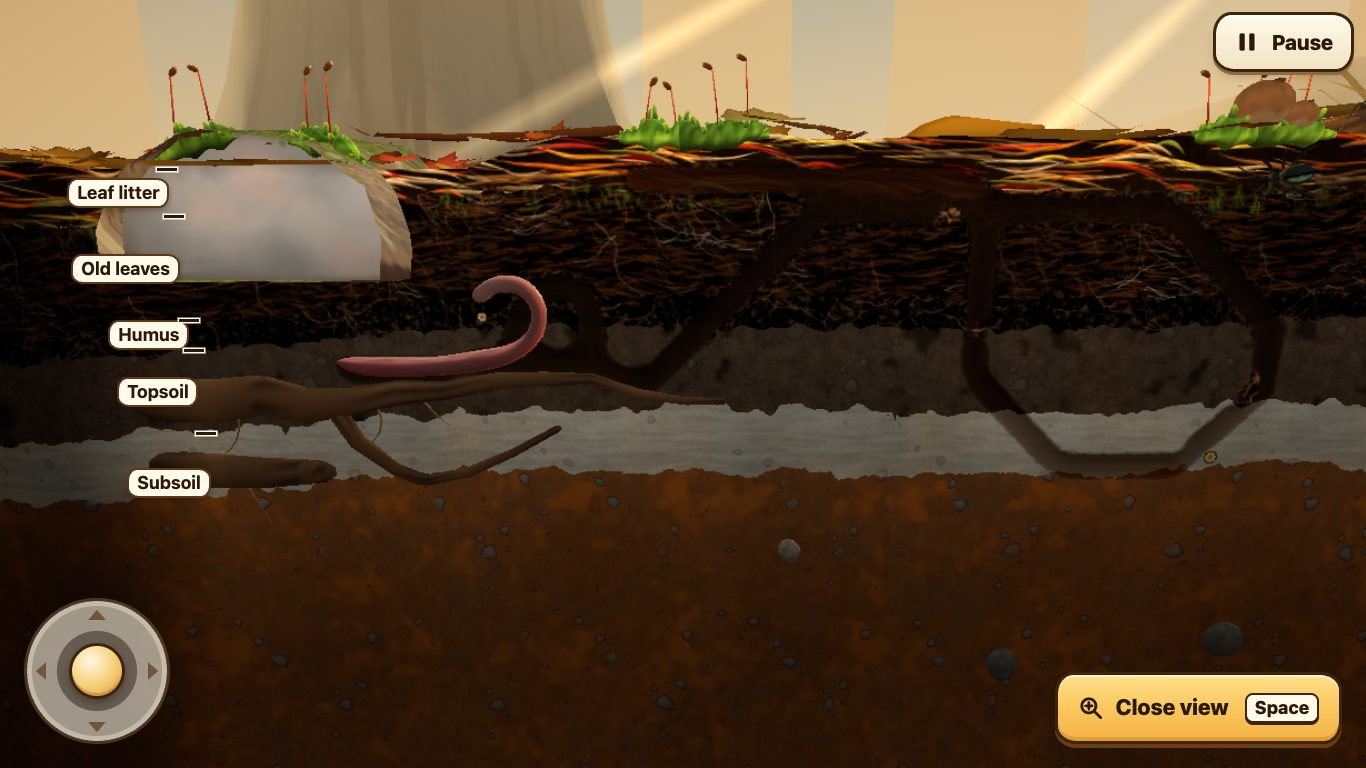
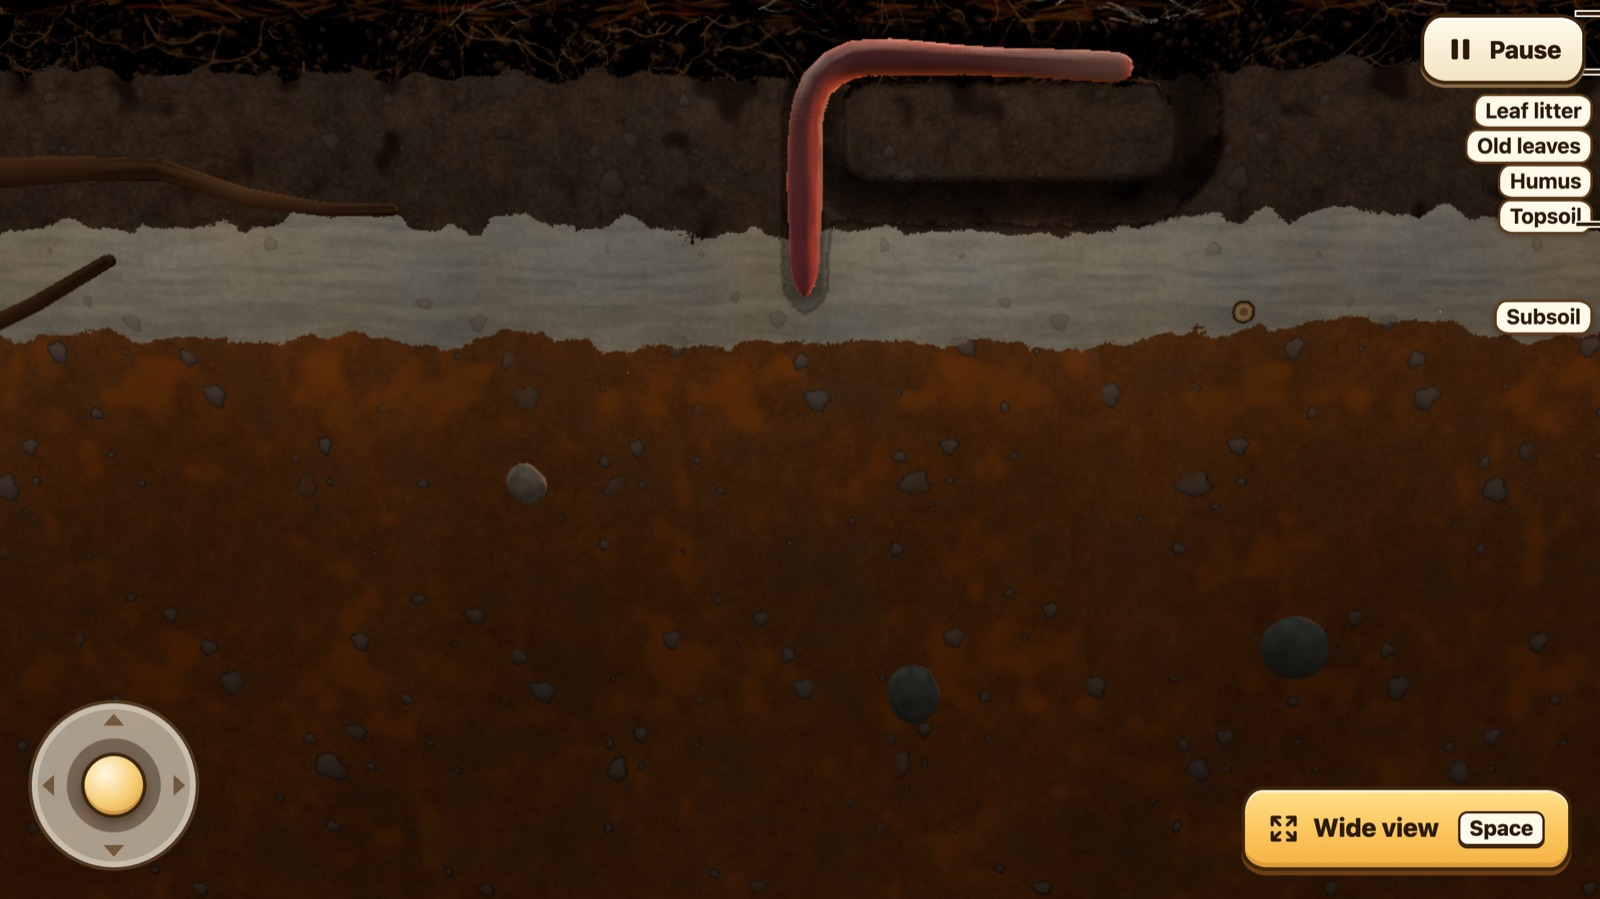
fix(underground): 3D tunnels tuned: castings read as lumps, deep tunnels stay soil brown; screenshots
- The face's hole is the whole tunnel, castings included (cutFace.ts bore): the one-cell band a
  casting leaves open never reached the hole threshold, so a casting read as a plug. The face
  discards on open alone; the casting colour is drawn only on the hollow.
- Castings are mounds of pellets (fillHollowCell, HOLLOW_PELLET) in H's dark crumbs, lit only by
  their shape: a granular lump on the downhill wall with the tunnel carrying on over it.
- Hollow light in the face's perceptual space: gentle wrap Lambert and depth (0.6 deepest), the
  factor clamped to 0.4..1 of the soil's own colour before the face's dimming, so a tunnel deep in
  B stays soil brown, never black and never brighter than the face.
- Tiles are claimed for open grid cells too (spec 4.3), so the face's hole never shows past them.
- cutScene preload comment: 11 MB, an addition to spec 4.3, and when it compiles nothing.
- Screenshots: tunnels-3d-wide, -close, -turn; tunnels.jpg retaken.

diff --git a/src/underground/cutFaceGlsl.ts b/src/underground/cutFaceGlsl.ts
@@ -154,28 +154,29 @@ export const CUT_FRAGMENT = /* glsl */ `
     col *= 1.0 - 0.35 * smoothstep(0.4, 0.53, e) * (1.0 - open);
     float mixed = smoothstep(0.22, 0.42, e + (lit.a - 0.25) * 0.4) * (1.0 - open) * smoothstep(0.25, 0.6, s.b);
     col = mix(col, vec3(0.03, 0.02, 0.015) + hum * 0.8, mixed * 0.9);
-    // Castings settled in the tunnel: granular lumps of dark crumbs (H's), darker for a gut full
-    // of leaves. Painted before the light below, so the hollow's mounds are lit by their own shape
-    // (their tops catch more light than the tunnel's depth behind them); on the face the mix is
-    // the same either way, and its castings are cut out with the hole.
-    float castAmt = smoothstep(0.12, 0.3, s.g * (0.7 + 0.6 * lit.a));
-    vec3 castCol = mix(vec3(0.3, 0.2, 0.13), vec3(0.17, 0.11, 0.07), clamp(s.g * 1.6 - 0.3, 0.0, 1.0));
-    col = mix(col, castCol * (0.35 + 1.4 * smoothstep(0.05, 0.35, lit.a)), castAmt);
-    // The tunnel (spec 2026-10-08 section 4.4). The face cuts its hole here (and where a casting
-    // lies in it): the hollow tiles behind show the tunnel's back half (hollowMesh.ts), in the same
-    // soil, lit by its own shape. One compare a pixel on the face.
+    // The tunnel (spec 2026-10-08 section 4.4). The face cuts its hole here, castings in it
+    // included (cutFace.ts): the hollow tiles behind show the tunnel's back half (hollowMesh.ts),
+    // in the same soil, lit by its own shape. One compare a pixel on the face.
     #ifndef HOLLOW
-    if (max(open, castAmt) > 0.5) discard;
+    if (open > 0.5) discard;
     #else
-    // Light from the camera's side and above (slab frame: u, v, toward the camera), wrapped, so the
-    // floor catches light and the roof is in shadow; the face itself (normal (0, 0, 1)) gets 1.
-    vec3 lightDir = vec3(0.0, 0.8, 0.6);
-    float wrapLit = dot(normalize(vNormal3), lightDir) * 0.5 + 0.5;
-    col *= wrapLit / 0.8;
-    // Darker deeper in: toward 45% at the tunnel's full depth...
-    col *= mix(1.0, 0.45, clamp(vDepth / ${f(TUNNEL_R)}, 0.0, 1.0));
-    // ...but a deep soil brown, never black (V2 spec 5).
-    col = max(col, vec3(0.13, 0.085, 0.052) * 0.55);
+    // Castings settled on the tunnel's downhill wall, as mounds of pellets in the hollow
+    // (soilGrid.ts fillHollowCell): H's own dark crumbs (the humus colour above), a little darker
+    // for a gut full of leaves, so a casting never reads as the soil around it. Lit only by the
+    // mound's shape below (no painted highlight).
+    float castAmt = smoothstep(0.07, 0.2, s.g * (0.7 + 0.6 * lit.a));
+    col = mix(col, hum * (1.8 - 0.6 * clamp(s.g * 1.6 - 0.3, 0.0, 1.0)), castAmt);
+    // Light from the camera's side and above (slab frame: u, v, toward the camera), so the floor and
+    // a casting's top catch light and the roof is in shadow; the face itself (normal (0, 0, 1)) gets
+    // 1. These factors are in the face's perceptual space (raised to FACE_GAMMA below), so they are
+    // gentle: 0.6 deepest in is about a third of the light.
+    float lambert = dot(normalize(vNormal3), vec3(0.0, 0.8, 0.6));
+    // Darker deeper in, toward 0.6 at the tunnel's full depth.
+    float shade = (1.0 + 0.5 * (lambert - 0.6)) * mix(1.0, 0.6, clamp(vDepth / ${f(TUNNEL_R)}, 0.0, 1.0));
+    // A deep soil brown, never black (V2 spec 5), and never brighter than the face: the factor
+    // stays within 0.4..1 of the soil's own colour, which the face's depth dimming, fades and grade
+    // below then treat exactly as the face around it, so each layer still shows in its tunnels.
+    col *= clamp(shade, 0.4, 1.0);
     #endif
 
     // Warm light from the surface fades with depth; the bottom darkens away (burrows go deeper).

diff --git a/src/underground/soilGrid.ts b/src/underground/soilGrid.ts
@@ -37,6 +37,8 @@ export const HOLLOW_MAX = 0.16;
  * here because castings.ts (which burrowTrail imports) cannot import it back without a cycle.
  */
 export const HOLLOW_MOUND_R = 0.14;
+/** A casting's mound is pellets: each cell's samples sink up to this (u) more toward its edges. */
+export const HOLLOW_PELLET = 0.024;
 /** A rectangle of hollow samples (c0 > c1: none). */
 export interface HollowRect { c0: number; c1: number; r0: number; r1: number }
 
@@ -255,9 +257,15 @@ function carve(g: SoilGrid, p: UV, r: number): void {
 
 /**
  * Lowers the hollow samples of cell i to a casting's mound (spec 4.2): HOLLOW_MOUND_R x 0.30 deep
- * (u behind the face) at the casting's middle (`edge255` 0) up to x 0.55 at its edge (255), plus a
- * little grain. It only ever lowers. `edge255` is an integer so no double is passed (boxed).
+ * (u behind the face) at the casting's middle (`edge255` 0) up to x 0.55 at its edge (255). Each
+ * cell is a pellet, raised in its middle and up to HOLLOW_PELLET deeper at its edges, so the mound
+ * reads as a granular lump (lit tops, shadowed gaps), plus a little grain. It only ever lowers.
+ * `edge255` is an integer so no double is passed (boxed).
  */
+/** A cell's middle in samples, and its corner samples' squared distance from it. */
+const PELLET_MID = (HOLLOW_RES - 1) / 2;
+const PELLET_FAR = 2 * PELLET_MID * PELLET_MID;
+
 export function fillHollowCell(g: SoilGrid, i: number, edge255: number): void {
   const cr = Math.floor(i / GRID_W);
   const cc = i - cr * GRID_W;
@@ -274,7 +282,8 @@ export function fillHollowCell(g: SoilGrid, i: number, edge255: number): void {
       h ^= h >>> 13; h = Math.imul(h, 0xc2b2ae35);
       h ^= h >>> 16;
       const grain = ((h >>> 24) / 255 - 0.5) * 0.015;
-      const level = Math.max(0, Math.round((base + grain) * scale));
+      const pellet = (HOLLOW_PELLET * ((a - PELLET_MID) * (a - PELLET_MID) + (b - PELLET_MID) * (b - PELLET_MID))) / PELLET_FAR;
+      const level = Math.max(0, Math.round((base + pellet + grain) * scale));
       if (g.hollow[k] > level) {
         g.hollow[k] = level;
         markHollow(g, c, row);

diff --git a/src/underground/cutScene.ts b/src/underground/cutScene.ts
@@ -159,12 +159,15 @@ export function createCutScene(game: BurrowGame, world: World, crawl: Crawl, hud
   return {
     group,
     preload(renderer, camera) {
-      // The pool (about 13 MB with its index) has its first bufferData the first frame it is drawn:
-      // on the Mac that frame cost 4 to 6 ms more, several times that on a Chromebook, mid camera
-      // swing. three has no call that only uploads a geometry, so draw the hollow alone once: its
-      // draw range is empty (nothing is drawn, no pixel changes, nothing is cleared) but three
-      // uploads every attribute and the index to draw it. Its program is warmShaders' (no lights
-      // either way), so this compiles nothing.
+      // An addition to spec 4.3 (which only builds the pool at load), for the first-dig hitch: the
+      // pool (about 11 MB: 7.9 MB of attributes and a 3.1 MB index) has its first bufferData the
+      // first frame it is drawn, and on the Mac that frame cost 4 to 6 ms more, several times that
+      // on a Chromebook, mid camera swing. three has no call that only uploads a geometry, so draw
+      // the hollow alone once: its draw range is empty (nothing is drawn, no pixel changes, nothing
+      // is cleared) but three uploads every attribute and the index to draw it. Drawn alone, it
+      // renders with three's _emptyScene (no fog, environment or lights), so its program matches
+      // warmShaders' and this compiles nothing only while world.scene has no fog, environment or
+      // three Lights either (the game lights by uniforms); add any of those and this compiles.
       const mesh = hollow.mesh;
       const culled = mesh.frustumCulled;
       const clear = renderer.autoClear;

diff --git a/src/underground/hollowMesh.ts b/src/underground/hollowMesh.ts
@@ -1,6 +1,6 @@
 import * as THREE from 'three';
 import { B_TOP, B_F, B_H, B_A, B_E, B_B, SLAB_HALF, boundaryOf, bound, slabX, slabZ, type Slab, type UV } from './slab';
-import { GRID_H, CELL, HOLLOW_H, HOLLOW_MAX, HOLLOW_STEP, HOLLOW_W, takeHollowDirty, type HollowRect, type SoilGrid } from './soilGrid';
+import { GRID_H, GRID_W, CELL, HOLLOW_H, HOLLOW_MAX, HOLLOW_SHIFT, HOLLOW_STEP, HOLLOW_W, takeHollowDirty, type HollowRect, type SoilGrid } from './soilGrid';
 import { CUT_FRAGMENT, CUT_VERTEX } from './cutFaceGlsl';
 
 /**
@@ -218,7 +218,11 @@ export function createHollowMesh(uniforms: Record<string, THREE.IUniform>): Holl
     geo.setDrawRange(0, used * INDICES_PER_TILE);
   }
 
-  /** Any hollow sample in tile `tile`, its edges widened by CLAIM_MARGIN. */
+  /**
+   * Any hollow sample or open grid cell (castings included: the face's hole is cut there too) in
+   * tile `tile`, its edges widened by CLAIM_MARGIN. The open cells matter where the face's hole
+   * reaches past the last carved sample (a cell opened at the dig's rim, its samples just outside).
+   */
   function needs(g: SoilGrid, tile: number): boolean {
     const tc = (tile % TILES_W) * PER;
     const tr = Math.floor(tile / TILES_W) * PER;
@@ -229,6 +233,10 @@ export function createHollowMesh(uniforms: Record<string, THREE.IUniform>): Holl
     for (let r = r0; r <= r1; r++) {
       const o = r * HOLLOW_W;
       for (let c = c0; c <= c1; c++) if (g.hollow[o + c]) return true;
+    }
+    for (let r = r0 >> HOLLOW_SHIFT; r <= r1 >> HOLLOW_SHIFT; r++) {
+      const o = r * GRID_W;
+      for (let c = c0 >> HOLLOW_SHIFT; c <= c1 >> HOLLOW_SHIFT; c++) if (g.open[o + c]) return true;
     }
     return false;
   }

diff --git a/tests/unit/hollowMesh.test.ts b/tests/unit/hollowMesh.test.ts
@@ -3,7 +3,7 @@ import type * as THREE from 'three';
 import { createCutFace } from '../../src/underground/cutFace';
 import { createHollowMesh, TILE_U, TILE_QUADS, TILES_W, TILES_H, VERTS_PER_TILE, INDICES_PER_TILE, BEHIND } from '../../src/underground/hollowMesh';
 import { createSlab, slabX, slabZ, SLAB_HALF, boundaryAt, B_TOP } from '../../src/underground/slab';
-import { createSoilGrid, fillSoilGrid, digDisc, HOLLOW_STEP, HOLLOW_W, type SoilGrid } from '../../src/underground/soilGrid';
+import { createSoilGrid, fillSoilGrid, digDisc, CELL, GRID_W, HOLLOW_STEP, HOLLOW_W, type SoilGrid } from '../../src/underground/soilGrid';
 
 const ate = { cells: 0, organic: 0 };
 function setUp() {
@@ -226,6 +226,19 @@ describe('the hollow tiles (spec 4.3: one draw, tiles claimed where tunnels are)
       deepest = Math.max(deepest, depth.getX(k));
     }
     expect(deepest).toBeGreaterThan(0.1);
+  });
+
+  it('an open cell claims its tile even with no hollow sample in it (the face cuts its hole there)', () => {
+    const { hollow, s, g } = setUp();
+    // A fresh slab marks the whole hollow dirty, so the next upload looks at every tile.
+    fillSoilGrid(g, s);
+    hollow.setSlab(s, g);
+    const vC = g.v0 + 8.75;
+    g.open[Math.floor((vC - g.v0) / CELL) * GRID_W + Math.floor((1.25 + SLAB_HALF) / CELL)] = 1;
+    expect(g.hollow.every((x) => x === 0)).toBe(true);
+    hollow.upload(g);
+    expect(hollow.used()).toBe(1);
+    expect(hollow.slotOf[tileOf(g, 1.25, vC)]).toBeGreaterThanOrEqual(0);
   });
 
   it('a neighbour tile is claimed through the 0.1 u margin, and only through it', () => {

diff --git a/tests/unit/hollow.test.ts b/tests/unit/hollow.test.ts
@@ -2,7 +2,7 @@
 import { describe, it, expect } from 'vitest';
 import { createSlab } from '../../src/underground/slab';
 import {
-  createSoilGrid, fillSoilGrid, digDisc, takeHollowDirty, hollowAt, AIR, GRID_W, HOLLOW_MAX, HOLLOW_STEP, HOLLOW_W, HOLLOW_H, HOLLOW_MOUND_R,
+  createSoilGrid, fillSoilGrid, digDisc, takeHollowDirty, hollowAt, AIR, GRID_W, HOLLOW_MAX, HOLLOW_STEP, HOLLOW_W, HOLLOW_H, HOLLOW_MOUND_R, HOLLOW_PELLET,
   cellAt, SOLID_STONE,
 } from '../../src/underground/soilGrid';
 import { castBlob } from '../../src/underground/castings';
@@ -107,9 +107,10 @@ describe('the hollow: how deep the tunnels go behind the face (spec 4.2)', () =>
       if (g.hollow[k] < before[k]) lowered++;
     }
     expect(lowered).toBeGreaterThan(0);
-    // Wherever the mound was set, it is 0.30..0.55 of the tunnel radius deep, plus grain (0.0075).
+    // Wherever the mound was set, it is 0.30..0.55 of the tunnel radius deep, plus its pellets
+    // (up to HOLLOW_PELLET deeper) and grain (0.0075).
     const lo = HOLLOW_MOUND_R * 0.3 - 0.0075 - HOLLOW_MAX / 255;
-    const hi = HOLLOW_MOUND_R * 0.55 + 0.0075 + HOLLOW_MAX / 255;
+    const hi = HOLLOW_MOUND_R * 0.55 + HOLLOW_PELLET + 0.0075 + HOLLOW_MAX / 255;
     for (let k = 0; k < g.hollow.length; k++) {
       if (g.hollow[k] === before[k]) continue;
       const depth = (g.hollow[k] * HOLLOW_MAX) / 255;

diff --git a/tests/unit/cutFace.test.ts b/tests/unit/cutFace.test.ts
@@ -88,17 +88,22 @@ describe('the cut face\'s tunnel channel (soft round bores)', () => {
     expect(at(5)).toBe(0);
   });
 
-  it('does not count castings as tunnel: a casting cell reads as wall', () => {
+  it('counts castings as tunnel: the hole is the whole tunnel, the casting drawn in it by the hollow', () => {
     const { face, g, tex } = setUp();
     digDisc(g, 1, -3, 0.35, eaten);
+    const before = new Uint8Array(tex.image.data as Uint8Array);
+    face.upload(g);
+    const dug = new Uint8Array(tex.image.data as Uint8Array);
     castBlob(g, 1, -3, 0.3, 200, 1, 0);
     face.upload(g);
     const bytes = tex.image.data as Uint8Array;
     let checked = 0;
     for (let i = 0; i < g.cast.length; i++) {
       if (!g.cast[i]) continue;
-      // Its own weight (4 of 16) is gone, whatever its neighbours.
-      expect(bytes[i * 4]).toBeLessThanOrEqual(192);
+      // The tunnel byte is what the dig alone gave (the cast takes nothing from the hole)...
+      expect(bytes[i * 4]).toBe(dug[i * 4]);
+      expect(bytes[i * 4]).toBeGreaterThan(before[i * 4]);
+      // ...and the casting is in G.
       expect(bytes[i * 4 + 1]).toBe(200);
       checked++;
     }

diff --git a/src/underground/cutFace.ts b/src/underground/cutFace.ts
@@ -16,8 +16,12 @@ const PAST_COLS = Math.ceil(FACE_FADE / COLUMN_STEP);
 const MAX_COLS = Math.round((2 * (SLAB_HALF + FACE_EXTRA)) / COLUMN_STEP) + 1 + 2 * PAST_COLS;
 const ROW_BYTES = GRID_W * 4;
 
-/** 1 where the cell is an open tunnel (not refilled by a casting). */
-const bore = (g: SoilGrid, i: number): number => (g.open[i] && !g.cast[i] ? 1 : 0);
+/**
+ * 1 where the cell is tunnel, castings in it included: the face's hole is the whole tunnel, and the
+ * hollow tiles behind draw a casting as a mound in it (cutFaceGlsl.ts). A casting leaves only a
+ * one-cell band open, which a blur of open-only cells would close over on the face (a plug).
+ */
+const bore = (g: SoilGrid, i: number): number => g.open[i];
 
 /**
  * Rows lo..hi's tunnel byte (R) as a 3 x 3 tent blur of the open cells: with the face's
